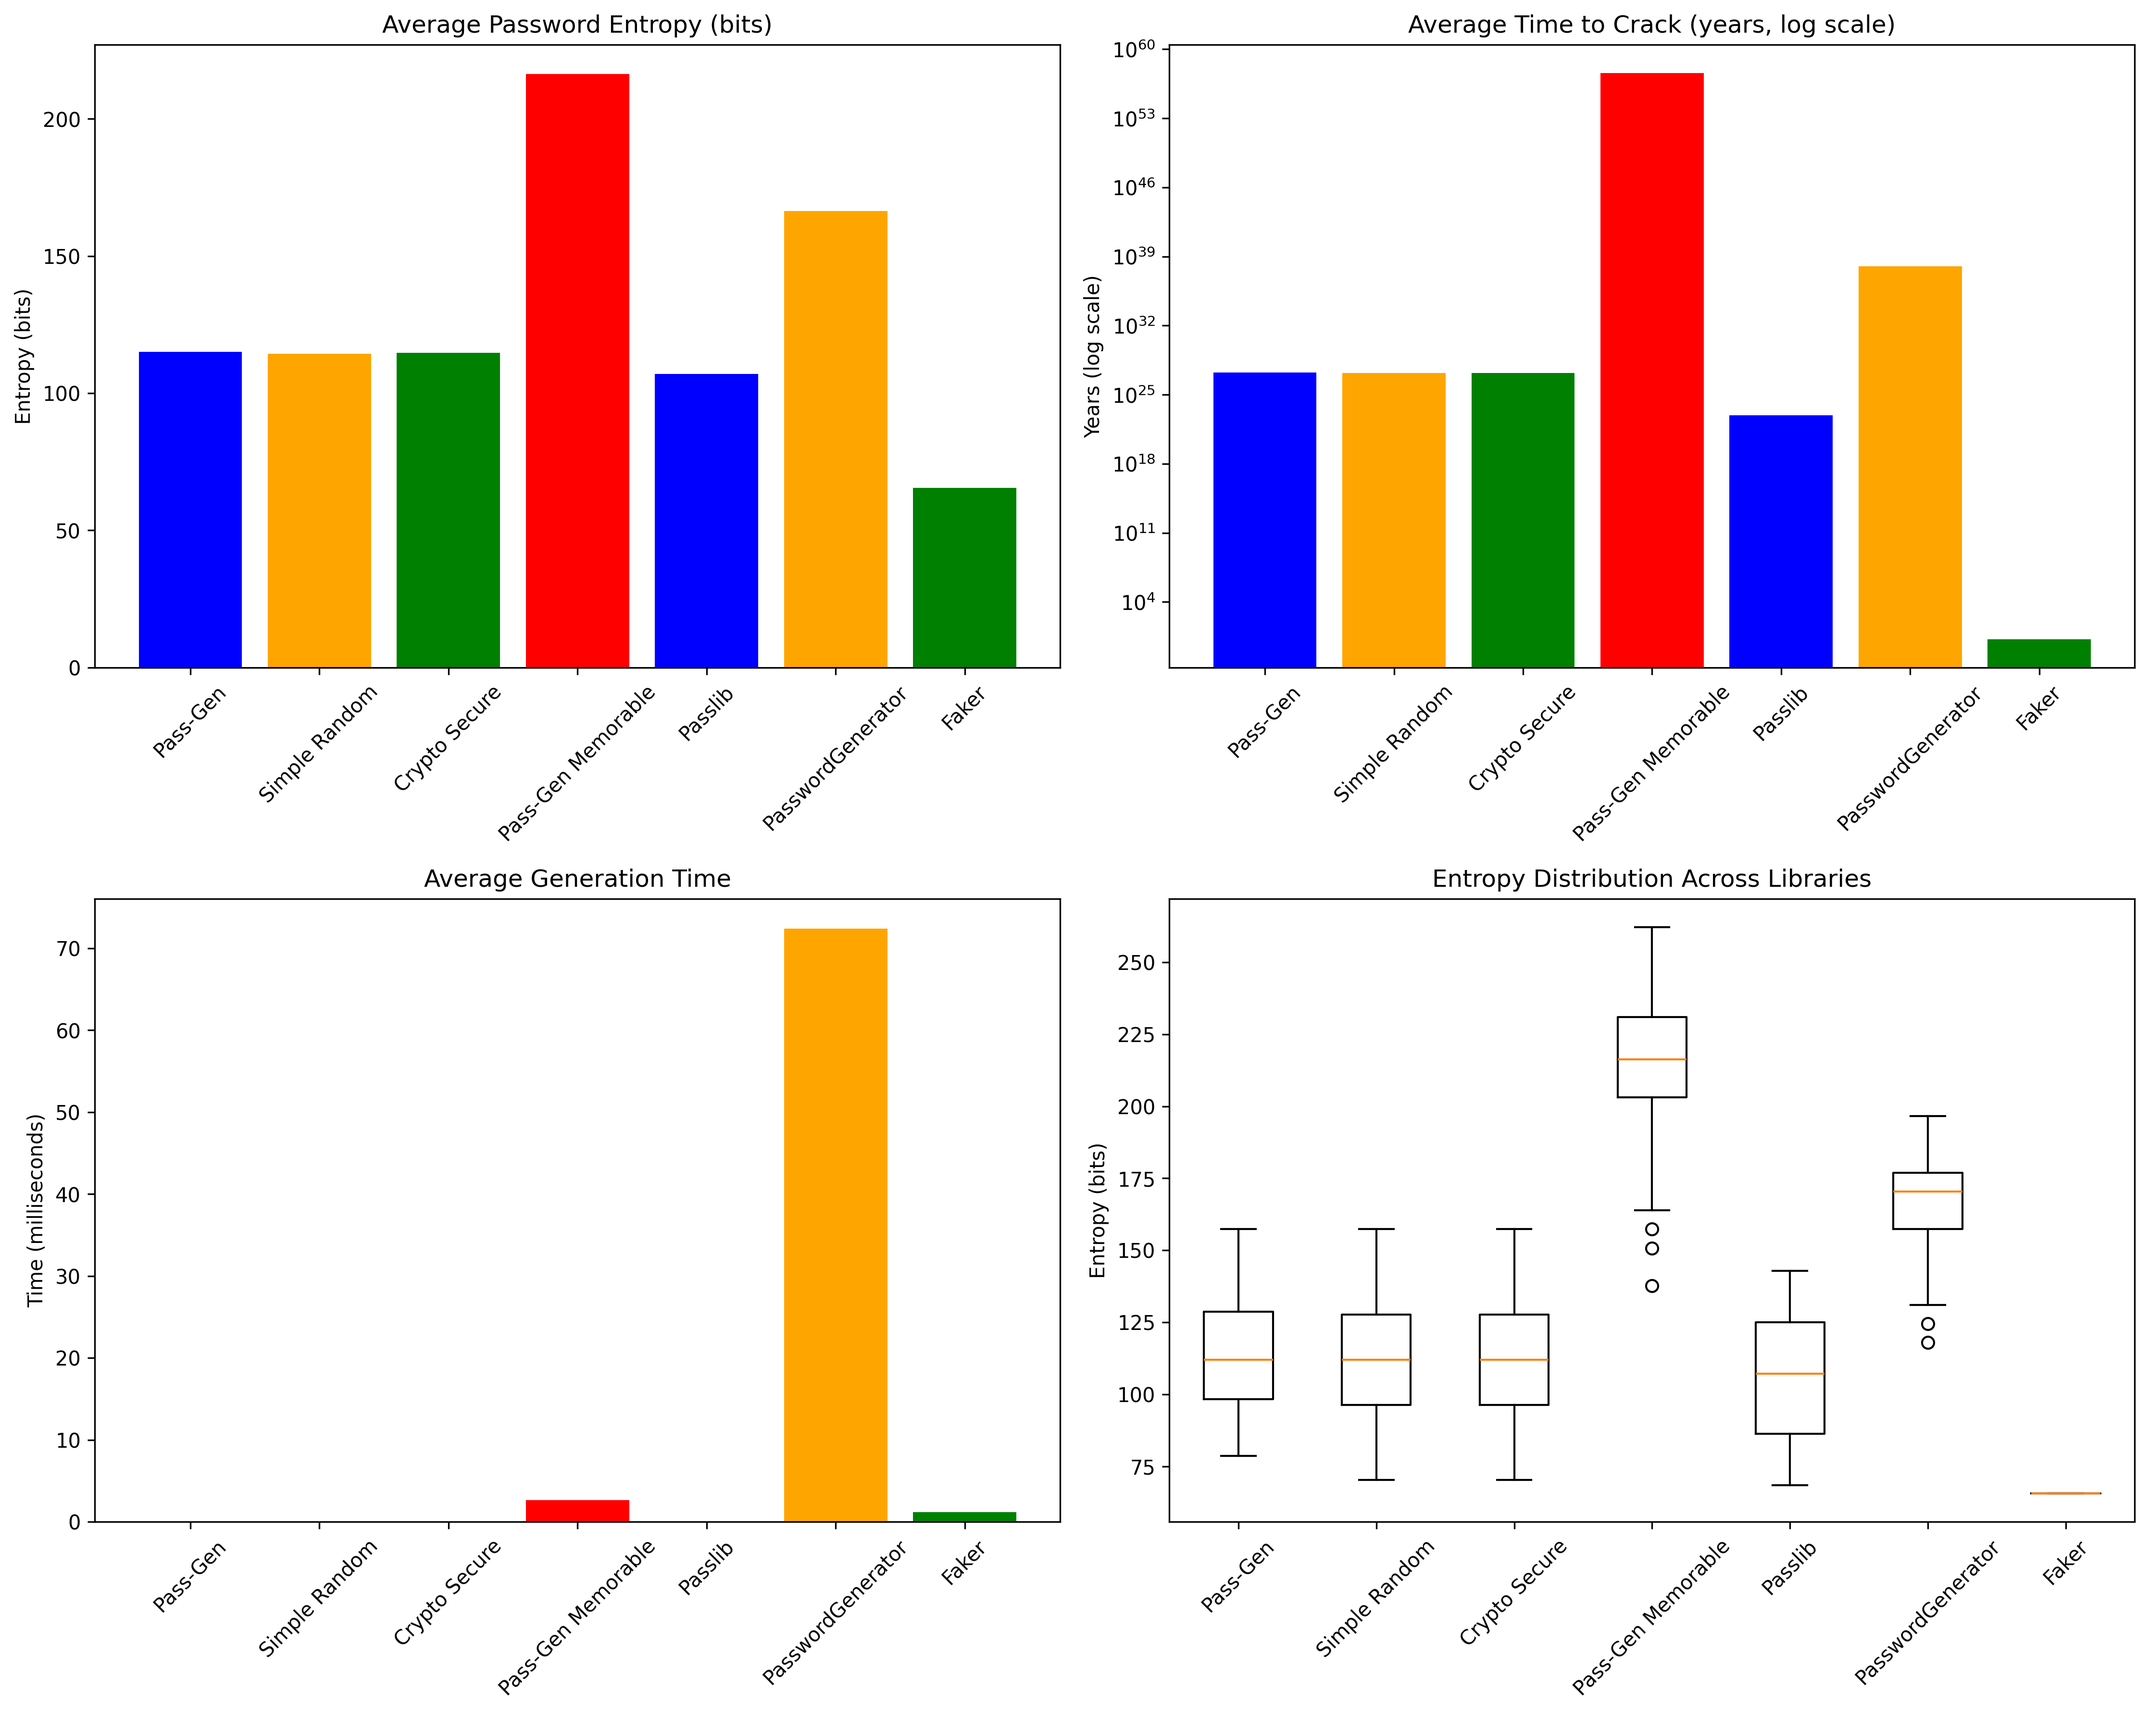
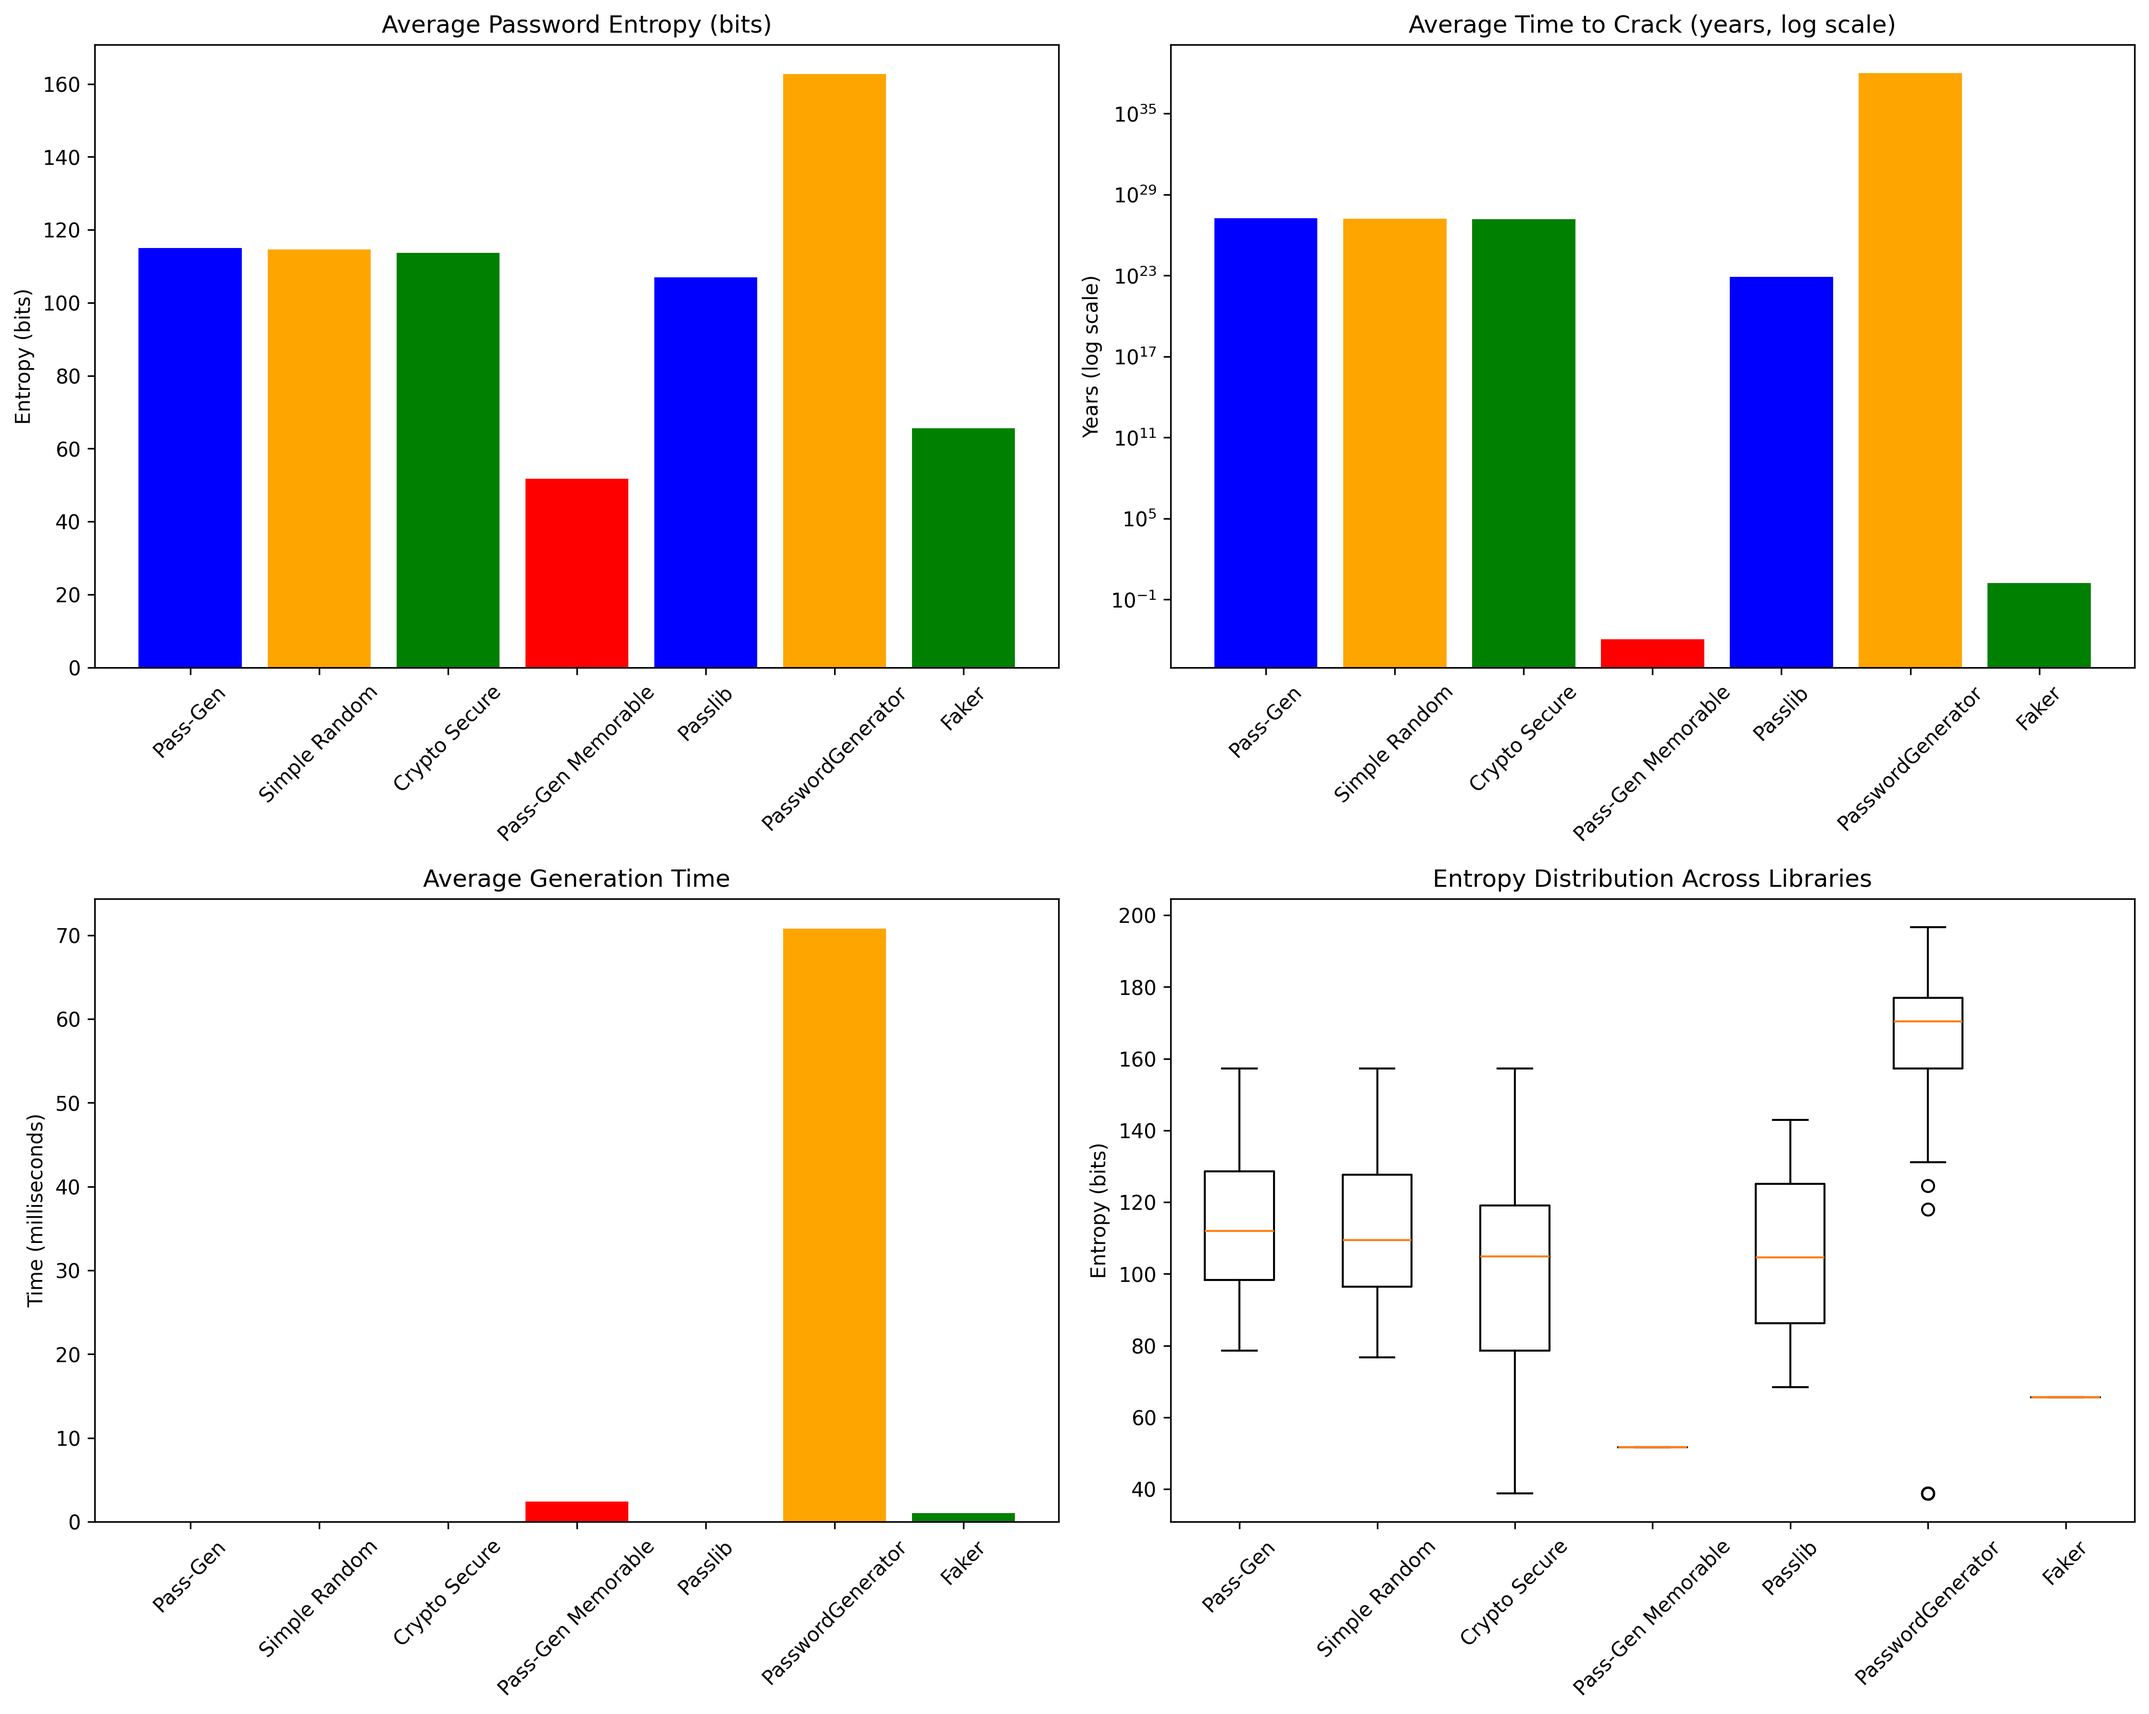
V1.0.3: Fix entropy calculation for memorable passwords and replace random with self._random

diff --git a/test/benchmark_passwords.py b/test/benchmark_passwords.py
@@ -103,6 +103,49 @@ class BenchmarkResults:
     
     def calculate_entropy(self, password: str) -> float:
         """Calculate password entropy in bits"""
+        
+        # Check if this is a memorable passphrase from Pass-Gen library
+        # Pass-Gen memorable passwords follow pattern: word-word-word-word-number
+        # or similar patterns with separators and optional capitalization
+        
+        # Common passphrase patterns
+        separators = ['-', '_']
+        
+        # Try to detect Pass-Gen memorable pattern
+        for separator in separators:
+            if separator in password:
+                parts = password.split(separator)
+                
+                # Check if this matches Pass-Gen memorable pattern (4 words + optional number)
+                if (len(parts) >= 4 and 
+                    all(3 <= len(part) <= 12 for part in parts[:-1]) and  # Words are 3-12 chars
+                    (len(parts[-1]) in [0, 1, 2, 3, 4] or parts[-1].isdigit())):  # Last part might be a number
+                    
+                    # Count actual words (excluding any numbers at the end)
+                    word_count = sum(1 for part in parts if part and not part.isdigit())
+                    if word_count >= 3:  # At least 3 words to consider it a passphrase
+                        # EFF large wordlist has 7776 words
+                        wordlist_size = 7776
+                        return word_count * math.log2(wordlist_size)
+        
+        # Additional check for passphrases with numbers mixed in
+        # Pattern like: Word123-word456-word789-word0
+        if '-' in password:
+            parts = password.split('-')
+            if len(parts) >= 3:
+                # Check if parts look like words with optional numbers
+                word_count = 0
+                for part in parts:
+                    # Remove digits from the end to check if the base looks like a word
+                    base_word = part.rstrip('0123456789')
+                    if 3 <= len(base_word) <= 12:  # Reasonable word length
+                        word_count += 1
+                
+                if word_count >= 3:
+                    wordlist_size = 7776
+                    return word_count * math.log2(wordlist_size)
+        
+        # Standard character-based entropy calculation for random passwords
         char_set = set(password)
         char_pool_size = 0
         

diff --git a/pass_gen/pass_gen.py b/pass_gen/pass_gen.py
@@ -8,7 +8,6 @@ cryptographically secure passwords with configurable parameters.
 import secrets
 import string
 import os
-import random
 from typing import List, Optional, Set
 
 
@@ -263,9 +262,9 @@ class PasswordGenerator:
                           'honeydew', 'iceberg', 'jackfruit', 'kiwi', 'lemon', 'mango', 'nectarine',
                           'orange', 'pear', 'quince', 'raspberry', 'strawberry', 'tangerine',
                           'ugli', 'vanilla', 'watermelon', 'xigua', 'yam', 'zucchini']
-            selected_words = random.sample(basic_words, min(word_count, len(basic_words)))
+            selected_words = self._random.sample(basic_words, min(word_count, len(basic_words)))
         else:
-            selected_words = random.sample(words, min(word_count, len(words)))
+            selected_words = self._random.sample(words, min(word_count, len(words)))
         
         # Apply capitalization if requested
         if capitalize:
@@ -277,7 +276,7 @@ class PasswordGenerator:
         # Add random number if requested
         if add_number:
             # Add number as a separate element
-            password = separator.join([password, str(random.randint(0, 9))])
+            password = separator.join([password, str(self._random.randint(0, 9))])
         
         # Filter out excluded characters if specified
         if self.exclude_chars:
